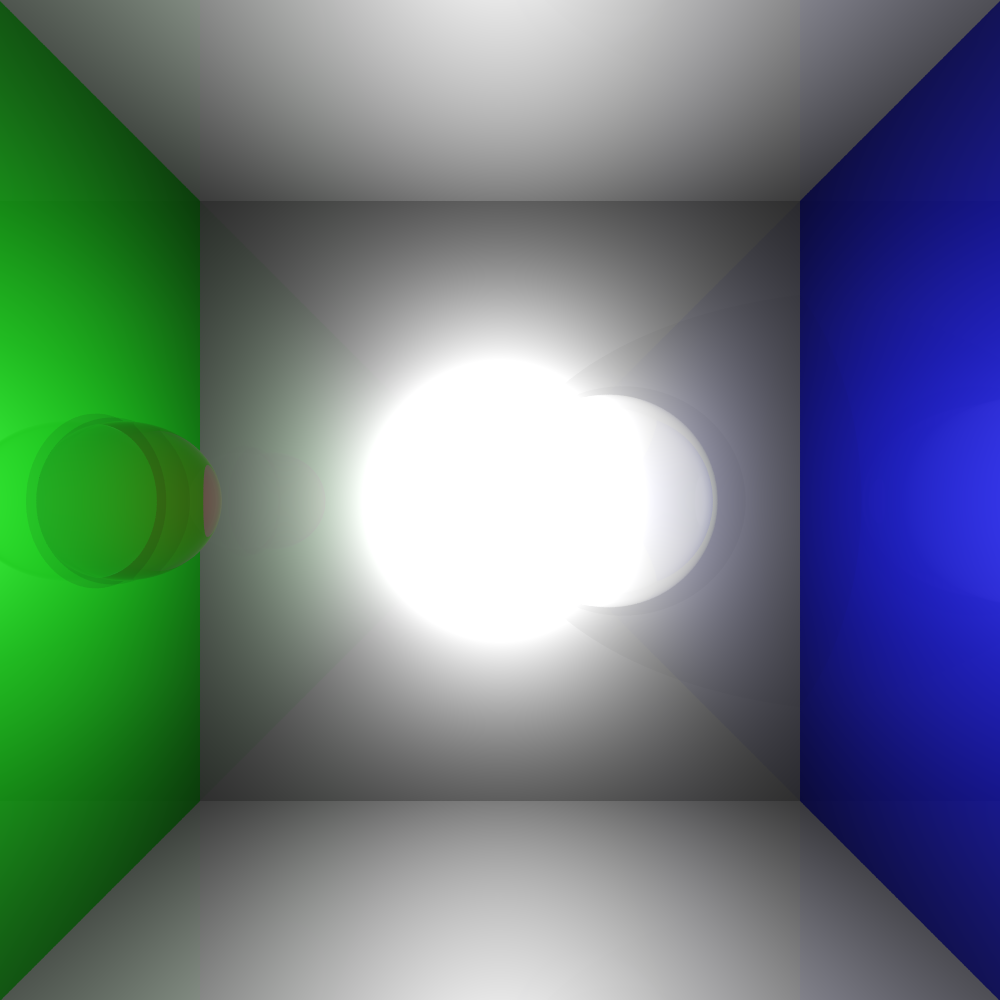
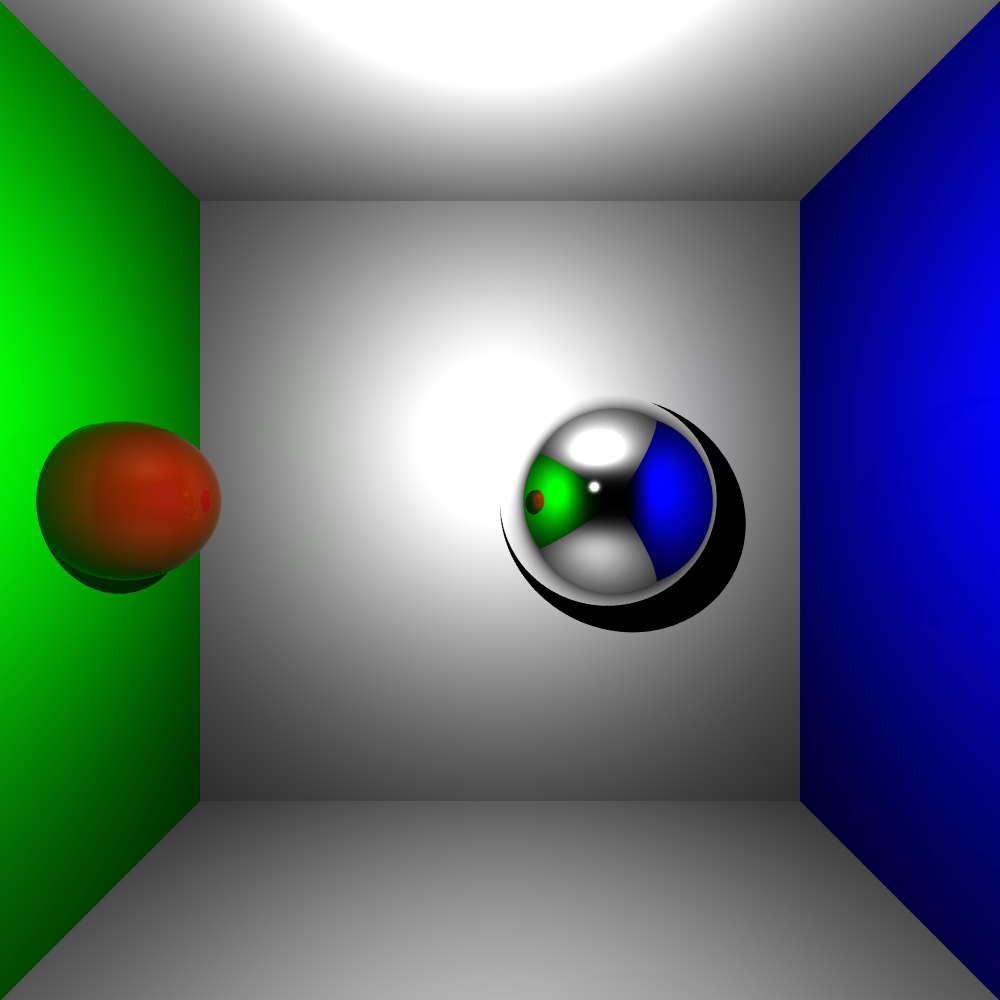
Refactorisation et améliorations du moteur de raytracing
- Amélioration de la const-correctness dans plusieurs méthodes.
- Remplacement de `double` par `auto` pour une meilleure inférence.
- Ajustement des matériaux et ajout d'un matériau miroir.
- Refactorisation des calculs d'éclairage direct et de réflexion.
- Utilisation de `std::optional` pour sécuriser les intersections.
- Augmentation de la profondeur de récursion maximale à 10.
- Amélioration de la commande `ffmpeg` pour réduire les messages inutiles.
- Mise à jour des fichiers binaires d'images pour refléter les changements.

diff --git a/RaytracingEngine/Scene.h b/RaytracingEngine/Scene.h
@@ -16,7 +16,7 @@ private:
     std::vector<Light> lights;
 
     Camera camera;
-    int maxRecursion = 5;
+    int maxRecursion = 10;
 
     static double fresnel(const double cosTheta, const double F0) {
         return F0 + (1.0 - F0) * std::pow(1.0 - cosTheta, 5.0);
@@ -27,7 +27,7 @@ private:
         return Vec3(1.0, 1.0, 1.0) * (1.0 - t) + Vec3(0.5, 0.7, 1.0) * t;
     }
 
-    double computeTransmittance(const Rayon& ray, double maxDist, const double bias) const {
+    double computeTransmittance(const Rayon& ray, const double maxDist, const double bias) const {
         double T = 1.0;
         double traveled = 0.0;
         Rayon r = ray;
@@ -35,7 +35,10 @@ private:
 
         while (safety-- > 0 && T > 1e-4 && traveled < maxDist) {
             auto hitOpt = IntersectClosest(r);
-            if (!hitOpt) break;
+            if (!hitOpt)
+            {
+                break;
+            }
 
             const HitInfo& hit = *hitOpt;
             const double t = hit.distance;
@@ -44,7 +47,10 @@ private:
                 continue;
             }
 
-            if (traveled + t >= maxDist) break;
+            if (traveled + t >= maxDist)
+            {
+                break;
+            }
 
             const double tr = std::clamp(hit.material.transparency, 0.0, 1.0);
             T *= tr;
@@ -59,34 +65,44 @@ private:
 
     Vec3 directLightning(const HitInfo& hit, const Vec3& viewDir, const double bias) const {
         const Material& material = hit.material;
+
         Vec3 normal = hit.normal;
         if (normal.dot(viewDir) < 0.0) {
             normal = -normal;
         }
 
-        Vec3 diffuseAccum = Vec3{0,0,0};
-        Vec3 specularAccum = Vec3{0,0,0};
+        auto diffuseAccum = Vec3{0,0,0};
+        auto specularAccum = Vec3{0,0,0};
 
         for (const auto& light : lights) {
             const Vec3 lightToHit = light.dirTo(hit.hitPoint);
-            const double NdotL = std::max(0.0, normal.dot(lightToHit));
-            if (NdotL <= 0.0) continue;
+            const double normalDotLightHit = std::max(0.0, normal.dot(lightToHit));
+            if (normalDotLightHit <= 0.0)
+            {
+	            continue;
+            }
 
-            const double distL = light.distanceTo(hit.hitPoint);
-            if (distL <= bias) continue;
+            const double distanceToLight = light.distanceTo(hit.hitPoint);
+            if (distanceToLight <= bias)
+            {
+	            continue;
+            }
 
             Rayon shadowRay{ hit.hitPoint + lightToHit * bias, lightToHit };
-            const double transmittance = computeTransmittance(shadowRay, distL - bias, bias);
-            if (transmittance <= 1e-6) continue;
+            const double transmittance = computeTransmittance(shadowRay, distanceToLight - bias, bias);
+            if (transmittance <= bias)
+            {
+	            continue;
+            }
 
-            diffuseAccum += light.contributionFrom(distL, NdotL) * transmittance;
+            diffuseAccum += light.contributionFrom(distanceToLight, normalDotLightHit) * transmittance;
 
             if (material.transparency <= 0.0 && material.specular > 0.0) {
                 Vec3 halfVector = (lightToHit + viewDir).normalize();
                 double NdotH = std::max(0.0, normal.dot(halfVector));
                 if (NdotH > 0.0) {
                     double specFactor = std::pow(NdotH, material.shininess);
-                    specularAccum += light.contributionFrom(distL, specFactor) * transmittance;
+                    specularAccum += light.contributionFrom(distanceToLight, specFactor) * transmittance;
                 }
             }
         }
@@ -98,14 +114,15 @@ private:
 
     std::optional<Vec3> TraceRay(const Rayon& traceRay, int recursionAmount, const double bias) const {
         if (recursionAmount >= maxRecursion) {
-            return backgroundColor(traceRay);
+			return backgroundColor(traceRay); // ciel
         }
+
         const auto hitOpt = IntersectClosest(traceRay);
         if (!hitOpt) {
             return backgroundColor(traceRay);
         }
 
-        const HitInfo hit = *hitOpt;
+        const HitInfo hit = hitOpt.value();
         const Material& material = hit.material;
 
         const Vec3 Incoming = traceRay.direction.normalize();
@@ -117,7 +134,7 @@ private:
         const double etaI = 1.0;
         const double etaT = material.refractiveIndex;
         const double F0 = std::pow((etaT - etaI) / (etaT + etaI), 2.0);
-        double F = fresnel(cosTheta, F0);
+        double fresnelAmount = fresnel(cosTheta, F0);
 
         double transparency = std::clamp(material.transparency, 0.0, 1.0);
 
@@ -131,22 +148,22 @@ private:
         if (transparency > 0.0) {
             const double eta = frontFace ? (etaI / etaT) : (etaT / etaI);
             Vec3 refractDir = Incoming.refract(normal, eta);
-            if (refractDir.length() > 1e-12) {
+
+            if (refractDir.length() > bias) {
                 refractDir = refractDir.normalize();
-                Rayon refrRay{ hit.hitPoint + refractDir * (bias * 1e2), refractDir };
-                if (auto tc = TraceRay(refrRay, recursionAmount + 1, bias)) {
-                    finalLight += tc.value() * (transparency * (1.0 - F));
+                Rayon refractRay{ hit.hitPoint + refractDir * (bias * 1e2), refractDir };
+                if (auto tc = TraceRay(refractRay, recursionAmount + 1, bias)) {
+                    finalLight += tc.value() * (transparency * (1.0 - fresnelAmount));
                 }
             } else {
-                F = 1.0;
+				fresnelAmount = 1.0; // Total reflection interne
             }
         }
 
-        double reflectiveness = (transparency > 0.0) ? F : material.specular;
-        if (reflectiveness > 1e-12) {
-            Vec3 reflDir = Incoming.reflect(normal).normalize();
-            Rayon reflRay{ hit.hitPoint + reflDir * bias, reflDir };
-            if (auto rc = TraceRay(reflRay, recursionAmount + 1, bias)) {
+    	if (auto reflectiveness = (transparency > 0.0) ? fresnelAmount : material.specular; reflectiveness > bias) {
+            Vec3 reflectDir = Incoming.reflect(normal).normalize();
+            Rayon reflectRay{ hit.hitPoint + reflectDir * bias, reflectDir };
+            if (auto rc = TraceRay(reflectRay, recursionAmount + 1, bias)) {
                 finalLight += rc.value() * reflectiveness;
             }
         }
@@ -155,7 +172,7 @@ private:
     }
 public:
     Scene(const Camera camera) : camera(camera) {
-        const std::size_t pixelCount = camera.width * camera.height;
+        const size_t pixelCount = camera.width * camera.height;
         this->spheres = std::vector<Sphere>();
         this->planes = std::vector<Plane>();
         this->lights = std::vector<Light>();
@@ -198,7 +215,7 @@ public:
 
         for (auto sphere : spheres) {
             if (auto intersection = sphere.intersect(ray)) {
-                if (const double dist = *intersection; dist > 0.0 && dist < maxDist) {
+                if (const double dist = intersection.value(); dist > 0.0 && dist < maxDist) {
                     return true;
                 }
             }
@@ -206,7 +223,7 @@ public:
 
         for (auto plane : planes) {
             if (auto intersection = plane.intersect(ray)) {
-                if (const double dist = *intersection; dist > 0.0 && dist < maxDist) {
+                if (const double dist = intersection.value(); dist > 0.0 && dist < maxDist) {
                     return true;
                 }
             }

diff --git a/RaytracingEngine/RaytracingEngine.cpp b/RaytracingEngine/RaytracingEngine.cpp
@@ -170,27 +170,27 @@ int main()
 
 	Material redMat = Material();
 	redMat.color = Vec3(1, 0, 0);
-	redMat.refractiveIndex = 1.01;
-	redMat.shininess = 128.0;
-	redMat.specular = 0.5;
-	redMat.transparency = 0.9;
+	redMat.refractiveIndex = 1.5;
+	redMat.shininess = 64.0;
+	redMat.specular = 0.9;
+	redMat.transparency = 0.5;
 
-	Material greenMat = Material();
-	greenMat.color = Vec3(1, 1, 1);
-	greenMat.refractiveIndex = 1.5;
-	greenMat.shininess = 512.0;
-	greenMat.specular = 0.05;
-	greenMat.transparency = 0.97;
+	Material mirror = Material();
+	mirror.color = Vec3(0, 0, 0);
+	mirror.refractiveIndex = 1.000000000000000001;
+	mirror.shininess = 1024.0;
+	mirror.specular = 0.99999999;
+	mirror.transparency = 0.0;
 
-	Material blueMat = Material();
+	/*Material blueMat = Material();
 	blueMat.color = Vec3(0, 0, 1);
 	blueMat.refractiveIndex = 1e3;
 	blueMat.shininess = 128.0;
 	blueMat.specular = 0.5;
-	blueMat.transparency = 0.9;
+	blueMat.transparency = 0.9;*/
 
 	Sphere sphere1(3, Vec3(-14, 0, 9), redMat);
-	Sphere sphere2(5, Vec3(5, 0, 14), greenMat);
+	Sphere sphere2(5, Vec3(5, 0, 14), mirror);
 	//Sphere sphere3(4, Vec3(10, 0, 8), blueMat);
 
 	scene.addSphere(sphere1);
@@ -215,13 +215,13 @@ int main()
 		Vec3(1, 1, 1)
 	};
 
-	for (int i = 0; i < normalDirections.size(); i++)
+	for (size_t i = 0; i < normalDirections.size(); i++)
 	{
 		Vec3 dir = normalDirections[i];
 		Vec3 col = planeColors[i];
 		Material mat = Material();
 		mat.transparency = 0.0;
-		mat.specular = 0.1;
+		mat.specular = 0.01;
 		mat.color = col;
 		mat.shininess = 0.128;
 		mat.refractiveIndex = 1.5;
@@ -236,10 +236,10 @@ int main()
 	/*scene.addLight(firstLight);
 	scene.addLight(secondLight);*/
 
-	Light light1(Vec3(0, 0, 0), Vec3(1, 1, 1), 100);
-	Light light2(Vec3(0, 0, 8), Vec3(1, 1, 1), 75);
+	Light light1(Vec3(0, 3, 0), Vec3(1, 1, 1), 250);
+	//Light light2(Vec3(0, 0, 8), Vec3(1, 1, 1), 75);
 	scene.addLight(light1);
-	scene.addLight(light2);
+	//scene.addLight(light2);
 
 
 	auto gen_start = std::chrono::high_resolution_clock::now();
@@ -267,7 +267,7 @@ int main()
 	for (size_t i = 0; i < allTonemapped.size(); i++) {
 		std::string tmFilename = tonemapNames[i];
 		writePPM(tmFilename + ".ppm", allTonemapped[i], WIDTH, HEIGHT);
-		std::string command = "ffmpeg -y -f image2 -i \"" + tmFilename + ".ppm\" \"" + tmFilename + ".png\"";
+		std::string command = "ffmpeg -y -loglevel error -i \"" + tmFilename + ".ppm\" -frames:v 1 \"" + tmFilename + ".png\"";
 		int rc = std::system(command.c_str());
 		if (rc == 0 && std::filesystem::exists(tmFilename + ".png")) {
 			std::cout << "Conversion PPM -> PNG réussie :" << tmFilename << ".png\n";

diff --git a/RaytracingEngine/Math.h b/RaytracingEngine/Math.h
@@ -80,7 +80,7 @@ struct Rayon {
     Vec3 origin;
     Vec3 direction;
     Rayon(const Vec3& o = {}, const Vec3& d = {}) : origin(o), direction(d) {}
-    Vec3 pointAtDistance(double t) const noexcept { return origin + direction * t; }
+    Vec3 pointAtDistance(const double t) const noexcept { return origin + direction * t; }
 };
 
 struct Camera {
@@ -98,13 +98,13 @@ struct Camera {
         : position(position), forward{0,0,1}, width(width), height(height), focal(focal), farPlaneDistance(farPlaneDistance), nearPlaneDistance(nearPlaneDistance) {}
 
     Rayon getRay(const size_t pixelX, const size_t pixelY, const bool aa) const {
-        double sx = (static_cast<double>(pixelX) ) - static_cast<double>(width) / 2.0;
-        double sy = static_cast<double>(height) / 2.0 - (static_cast<double>(pixelY));
+        auto sx = (static_cast<double>(pixelX) ) - static_cast<double>(width) / 2.0;
+        auto sy = static_cast<double>(height) / 2.0 - (static_cast<double>(pixelY));
 
-		double jitterX = 0.0;
-		double jitterY = 0.0;
+		auto jitterX = 0.0;
+		auto jitterY = 0.0;
 		if (aa) {
-			const double invAA = 1.0 / static_cast<double>(aa);
+			const auto invAA = 1.0 / static_cast<double>(aa);
 
 			// suggestion Chatgpt : use thread_local random generators to avoid contention in multithreaded scenarios
 			thread_local static std::mt19937 gen((std::random_device())());
@@ -116,8 +116,8 @@ struct Camera {
 		sx += jitterX;
 		sy += jitterY;
 
-        const Vec3 screenPoint = Vec3(sx, sy, position.z + focal);
-        const Vec3 dir = (screenPoint - position).normalize();
+        const auto screenPoint = Vec3(sx, sy, position.z + focal);
+        const auto dir = (screenPoint - position).normalize();
         return Rayon{ position, dir };
     }
 };

diff --git a/RaytracingEngine/Shape.h b/RaytracingEngine/Shape.h
@@ -44,7 +44,6 @@ struct HitInfo {
         HitInfo closestIntersection = intersections[0];
         for (auto info : intersections)
         {
-            // Correction: choisir l'intersection la plus proche
             if (info.isCloserThan(closestIntersection))
             {
                 closestIntersection = info;
@@ -126,7 +125,7 @@ public:
     Material getMaterial() const { return material; }
     Transform getTransform() const { return transform; }
 
-    static Sphere getHitObject(const HitInfo hit, const std::vector<Sphere> spheres)
+    static Sphere getHitObject(const HitInfo& hit, const std::vector<Sphere>& spheres)
     {
         return spheres[hit.index];
     }
@@ -186,7 +185,7 @@ public:
     Material getMaterial() const { return material; }
     Transform getTransform() const { return transform; }
 
-    static Plane getHitObject(const HitInfo hit, const std::vector<Plane> planes)
+    static Plane getHitObject(const HitInfo& hit, const std::vector<Plane>& planes)
     {
         return planes[hit.index];
     }
